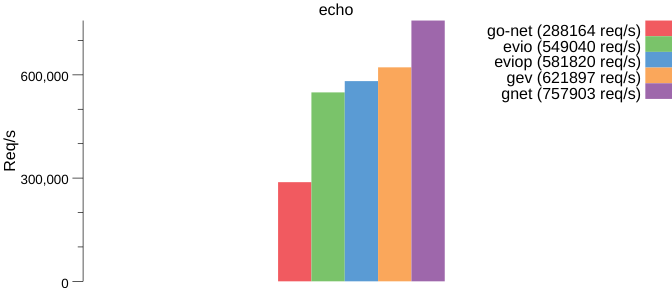
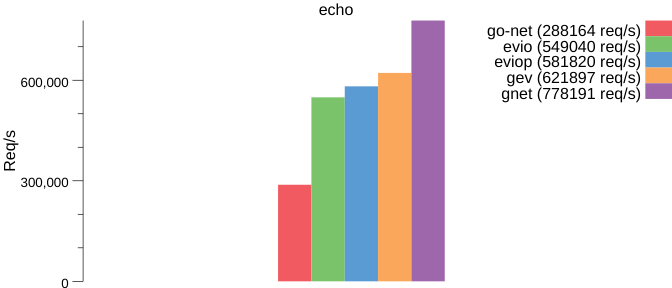
Update http server example and benchmarks of echo

diff --git a/gnet-http-server/main.go b/gnet-http-server/main.go
@@ -8,9 +8,9 @@ package main
 import (
 	"bytes"
 	"flag"
+	
 	"fmt"
 	"log"
-	"os"
 	"strconv"
 	"strings"
 	"time"
@@ -19,6 +19,7 @@ import (
 )
 
 var res string
+var resBytes []byte
 
 type request struct {
 	proto, method string
@@ -29,81 +30,85 @@ type request struct {
 
 type httpServer struct {
 	*gnet.EventServer
-	port    int
-	noparse bool
+}
+
+var errMsg = []byte("Internal Server Error")
+
+type httpCodec struct {
+	req request
+}
+
+func (hc *httpCodec) Encode(c gnet.Conn, buf []byte) ([]byte, error) {
+	return appendHandle(nil, res), nil
+}
+
+func (hc *httpCodec) Decode(c gnet.Conn) ([]byte, error) {
+	buf := c.Read()
+	// process the pipeline
+	leftover, err := parseReq(buf, &hc.req)
+	// bad thing happened
+	if err != nil {
+		return errMsg, err
+	} else if len(leftover) == len(buf) {
+		// request not ready, yet
+		return nil, nil
+	}
+	c.ResetBuffer()
+	return buf, nil
 }
 
 func (hs *httpServer) OnInitComplete(srv gnet.Server) (action gnet.Action) {
-	log.Printf("http server started on port %d (loops: %d)", hs.port, srv.NumLoops)
+	log.Printf("HTTP server is listening on %s (multi-cores: %t, loops: %d)\n",
+		srv.Addr.String(), srv.Multicore, srv.NumLoops)
 	return
 }
 
 func (hs *httpServer) React(c gnet.Conn) (out []byte, action gnet.Action) {
-	data := c.Read()
-	if hs.noparse && bytes.Contains(data, []byte("\r\n\r\n")) {
-		// for testing minimal single packet request -> response.
-		out = appendresp(nil, "200 OK", "", res)
-		c.ResetBuffer()
-		return
-	}
+	data := c.ReadFrame()
 	// process the pipeline
-	var req request
-	leftover, err := parsereq(data, &req)
-	if err != nil {
+	if bytes.Equal(data, errMsg) {
 		// bad thing happened
-		out = appendresp(out, "500 Error", "", err.Error()+"\n")
+		out = appendResp(out, "500 Error", "", string(errMsg)+"\n")
 		action = gnet.Close
 		return
-	} else if len(leftover) == len(data) {
+	} else if data == nil {
 		// request not ready, yet
 		return
 	}
 	// handle the request
-	req.remoteAddr = c.RemoteAddr().String()
-	out = appendhandle(out, &req)
-	c.ResetBuffer()
+	out = resBytes
 	return
 }
 
 func main() {
 	var port int
 	var multicore bool
-	var aaaa bool
-	var noparse bool
 
+	// Example command: go run http.go --port 8080 --multicore true
 	flag.IntVar(&port, "port", 8080, "server port")
-	flag.BoolVar(&aaaa, "aaaa", false, "aaaaa....")
-	flag.BoolVar(&noparse, "noparse", true, "do not parse requests")
 	flag.BoolVar(&multicore, "multicore", true, "multicore")
 	flag.Parse()
 
-	if os.Getenv("NOPARSE") == "1" {
-		noparse = true
-	}
+	res = "Hello World!\r\n"
+	resBytes = []byte(res)
 
-	if aaaa {
-		res = strings.Repeat("a", 1024)
-	} else {
-		res = "Hello World!\r\n"
-	}
+	http := new(httpServer)
+	hc := new(httpCodec)
 
-	http := &httpServer{port: port, noparse: noparse}
-	// We at least want the single http address.
-	addr := fmt.Sprintf("tcp"+"://:%d", port)
 	// Start serving!
-	log.Fatal(gnet.Serve(http, addr, gnet.WithMulticore(multicore)))
+	log.Fatal(gnet.Serve(http, fmt.Sprintf("tcp://:%d", port), gnet.WithMulticore(multicore), gnet.WithCodec(hc)))
 }
 
-// appendhandle handles the incoming request and appends the response to
+// appendHandle handles the incoming request and appends the response to
 // the provided bytes, which is then returned to the caller.
-func appendhandle(b []byte, req *request) []byte {
-	return appendresp(b, "200 OK", "", res)
+func appendHandle(b []byte, res string) []byte {
+	return appendResp(b, "200 OK", "", res)
 }
 
-// appendresp will append a valid http response to the provide bytes.
+// appendResp will append a valid http response to the provide bytes.
 // The status param should be the code plus text such as "200 OK".
 // The head parameter should be a series of lines ending with "\r\n" or empty.
-func appendresp(b []byte, status, head, body string) []byte {
+func appendResp(b []byte, status, head, body string) []byte {
 	b = append(b, "HTTP/1.1"...)
 	b = append(b, ' ')
 	b = append(b, status...)
@@ -125,13 +130,13 @@ func appendresp(b []byte, status, head, body string) []byte {
 	return b
 }
 
-// parsereq is a very simple http request parser. This operation
+// parseReq is a very simple http request parser. This operation
 // waits for the entire payload to be buffered before returning a
 // valid request.
-func parsereq(data []byte, req *request) (leftover []byte, err error) {
+func parseReq(data []byte, req *request) (leftover []byte, err error) {
 	sdata := string(data)
 	var i, s int
-	var top string
+	var head string
 	var clen int
 	var q = -1
 	// method, path, proto line
@@ -164,13 +169,13 @@ func parsereq(data []byte, req *request) (leftover []byte, err error) {
 	if req.proto == "" {
 		return data, fmt.Errorf("malformed request")
 	}
-	top = sdata[:s]
+	head = sdata[:s]
 	for ; i < len(sdata); i++ {
 		if i > 1 && sdata[i] == '\n' && sdata[i-1] == '\r' {
 			line := sdata[s : i-1]
 			s = i + 1
 			if line == "" {
-				req.head = sdata[len(top)+2 : i+1]
+				req.head = sdata[len(head)+2 : i+1]
 				i++
 				if clen > 0 {
 					if len(sdata[i:]) < clen {
